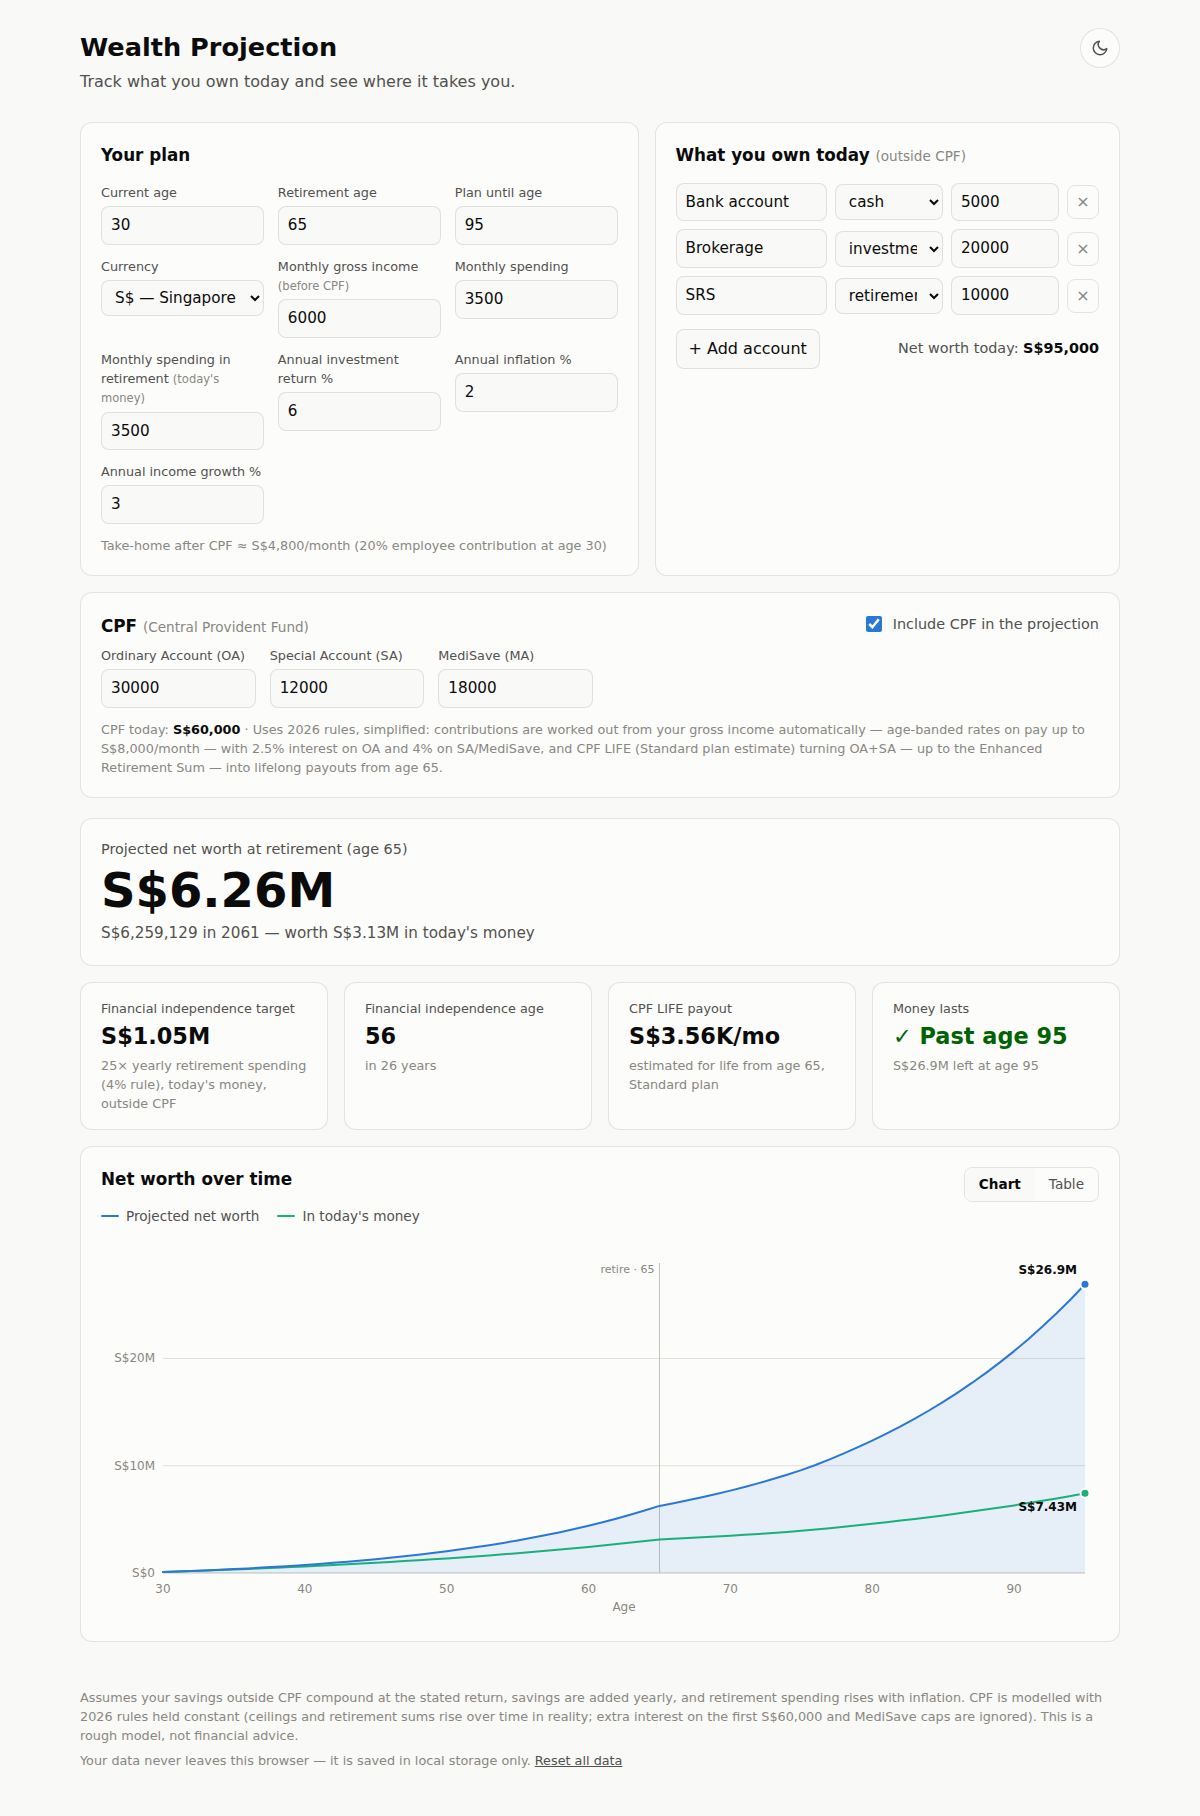
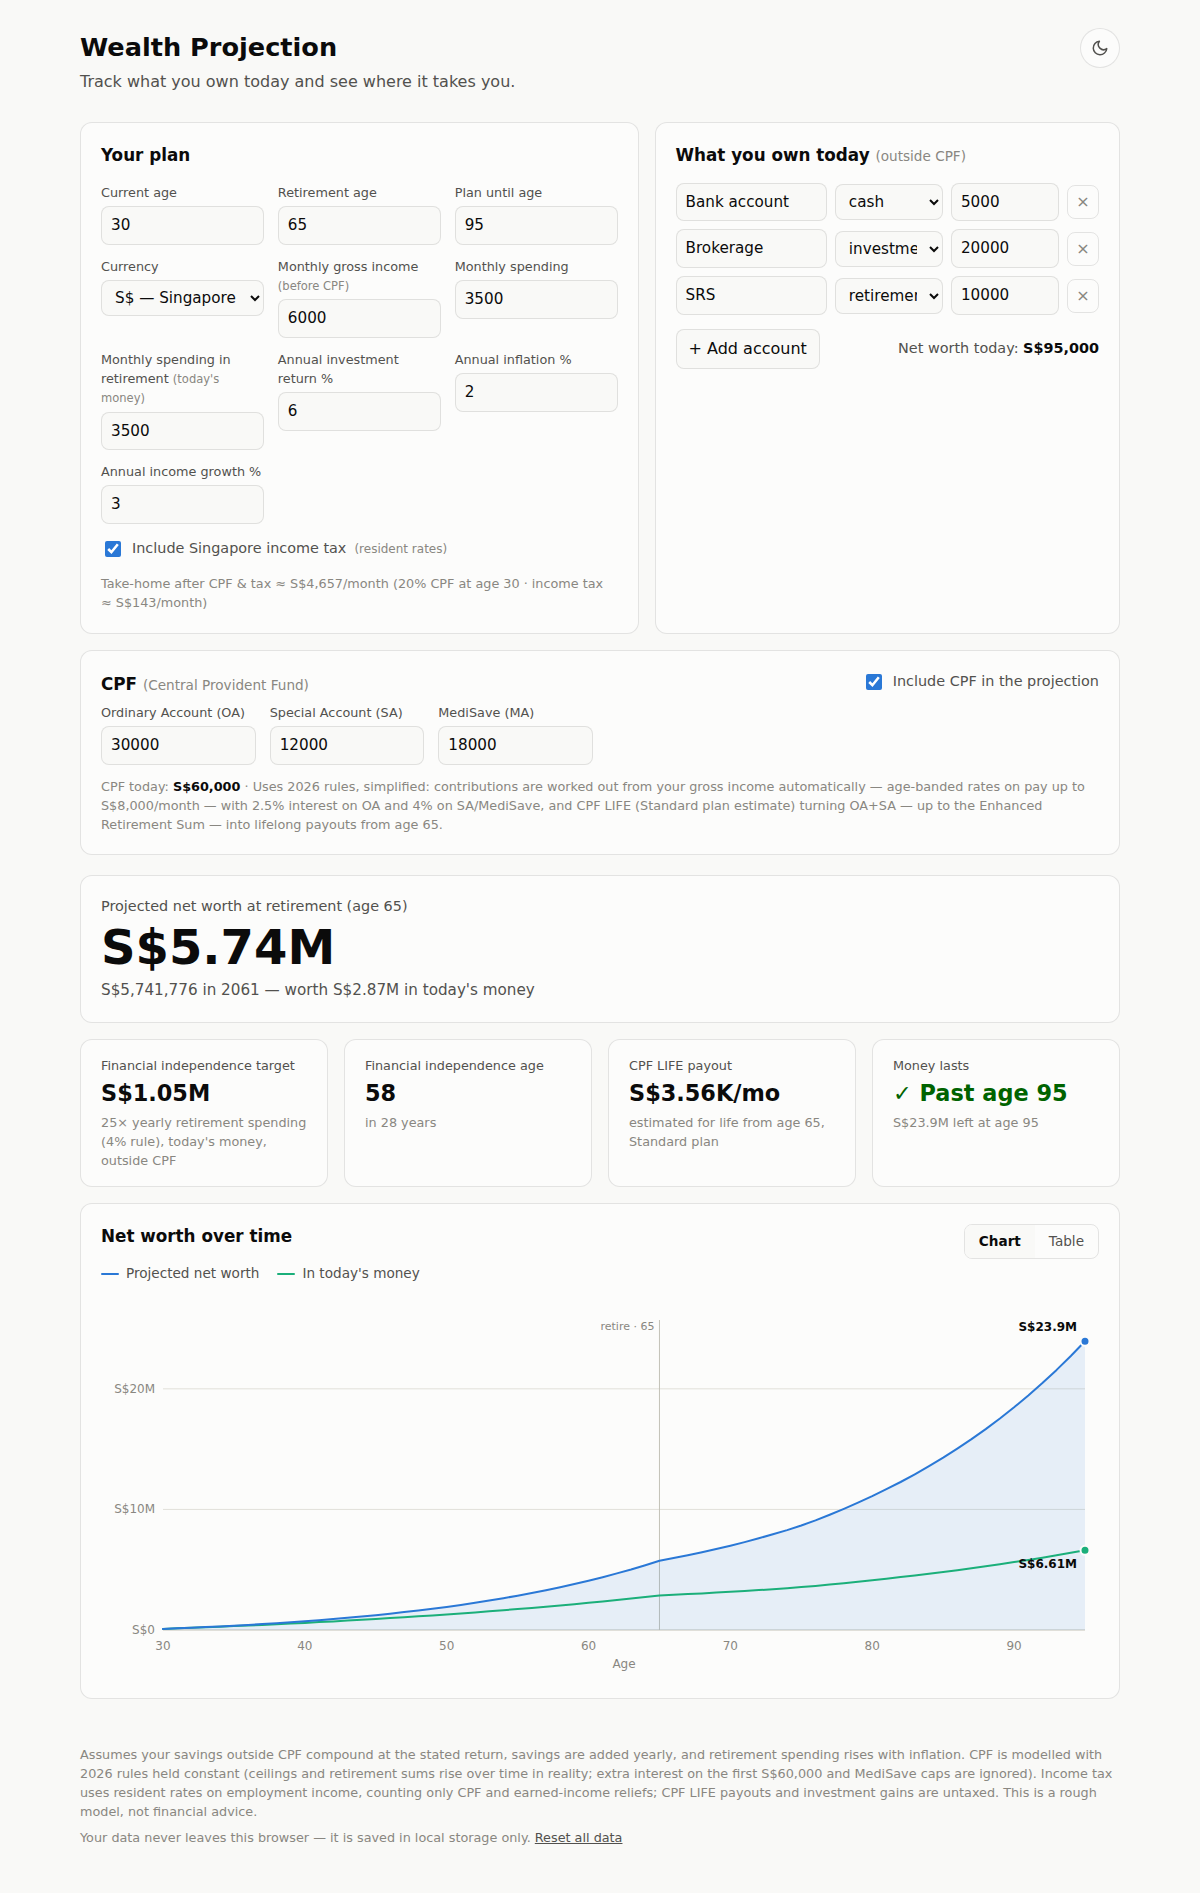
Include Singapore income tax in the projection
Apply resident progressive rates (YA 2026 schedule) to employment income
while working, toggleable in the plan card. Chargeable income deducts the
employee's CPF contributions and the earned income relief; CPF LIFE
payouts and investment gains stay untaxed as in Singapore, so retirement
years carry no tax. The take-home hint now shows the monthly tax amount.
Bracket math is locked to IRAS's published cumulative figures in tests.

Claude-Session: https://claude.ai/code/session_01GSpZFDgGv9EkE1mJWvqyMR

diff --git a/js/app.js b/js/app.js
@@ -1,4 +1,4 @@
-import { project, CPF } from "./projection.js";
+import { project, CPF, TAX } from "./projection.js";
 import { renderChart } from "./chart.js";
 
 const STORAGE_KEY = "wealth-projection-v3";
@@ -16,6 +16,7 @@ const DEFAULT_STATE = {
   returnRate: 6,
   inflationRate: 2,
   incomeGrowthRate: 3,
+  includeTax: true,
   cpf: {
     enabled: true,
     oa: 30000,
@@ -99,6 +100,13 @@ function bindPlanInputs() {
       }
     });
   }
+  const taxCheck = document.getElementById("in-includeTax");
+  taxCheck.checked = state.includeTax;
+  taxCheck.addEventListener("change", () => {
+    state.includeTax = taxCheck.checked;
+    saveState();
+    recompute();
+  });
   const currency = document.getElementById("in-currency");
   currency.value = state.currency;
   if (currency.value !== state.currency) currency.value = "S$"; // unknown saved symbol
@@ -247,6 +255,7 @@ function recompute() {
     returnRate: state.returnRate,
     inflationRate: state.inflationRate,
     incomeGrowthRate: state.incomeGrowthRate,
+    includeTax: state.includeTax,
     cpf: state.cpf,
   });
 
@@ -265,18 +274,26 @@ function recompute() {
 
 function updateIncomeHint() {
   const hint = document.getElementById("income-hint");
-  if (!state.cpf.enabled || !(state.monthlyGrossIncome > 0)) {
+  const cpfOn = state.cpf.enabled;
+  const taxOn = state.includeTax;
+  if ((!cpfOn && !taxOn) || !(state.monthlyGrossIncome > 0)) {
     hint.hidden = true;
     return;
   }
-  const rate = CPF.employeeRateForAge(state.currentAge);
-  const monthlyCeiling = CPF.OW_CEILING_ANNUAL / 12;
-  const takeHome = state.monthlyGrossIncome
-    - rate * Math.min(state.monthlyGrossIncome, monthlyCeiling);
+  const grossAnnual = state.monthlyGrossIncome * 12;
+  const rate = cpfOn ? CPF.employeeRateForAge(state.currentAge) : 0;
+  const cpfAnnual = rate * Math.min(grossAnnual, CPF.OW_CEILING_ANNUAL);
+  const taxAnnual = taxOn
+    ? TAX.of(Math.max(0, grossAnnual - cpfAnnual - TAX.EARNED_INCOME_RELIEF))
+    : 0;
+  const takeHome = (grossAnnual - cpfAnnual - taxAnnual) / 12;
+  const parts = [];
+  if (cpfOn) parts.push(`${(rate * 100).toLocaleString("en-US")}% CPF at age ${state.currentAge}`);
+  if (taxOn) parts.push(`income tax ≈ ${fmtFull(taxAnnual / 12)}/month`);
   hint.hidden = false;
   hint.textContent =
-    `Take-home after CPF ≈ ${fmtFull(takeHome)}/month ` +
-    `(${(rate * 100).toLocaleString("en-US")}% employee contribution at age ${state.currentAge})`;
+    `Take-home after ${[cpfOn && "CPF", taxOn && "tax"].filter(Boolean).join(" & ")}` +
+    ` ≈ ${fmtFull(takeHome)}/month (${parts.join(" · ")})`;
 }
 
 function renderHero(result) {
@@ -463,6 +480,7 @@ document.getElementById("reset-data").addEventListener("click", () => {
 function bindPlanInputsValuesOnly() {
   for (const key of PLAN_FIELDS) document.getElementById(`in-${key}`).value = state[key];
   document.getElementById("in-currency").value = state.currency;
+  document.getElementById("in-includeTax").checked = state.includeTax;
   document.getElementById("in-cpfEnabled").checked = state.cpf.enabled;
   for (const [id, key] of CPF_FIELDS) document.getElementById(id).value = state.cpf[key];
   syncCpfUI();

diff --git a/js/projection.js b/js/projection.js
@@ -51,6 +51,32 @@ export const CPF = {
   },
 };
 
+// Singapore resident income tax (YA 2026 schedule), applied to employment
+// income while working. Chargeable income = gross − employee CPF share −
+// earned income relief; other reliefs are ignored. CPF LIFE payouts and
+// investment gains are untaxed (as in Singapore). Brackets are held constant
+// in nominal terms — another simplification.
+export const TAX = {
+  EARNED_INCOME_RELIEF: 1000,
+  BRACKETS: [
+    // [upper bound of bracket, marginal rate]
+    [20000, 0], [30000, 0.02], [40000, 0.035], [80000, 0.07],
+    [120000, 0.115], [160000, 0.15], [200000, 0.18], [240000, 0.19],
+    [280000, 0.195], [320000, 0.20], [500000, 0.22], [1000000, 0.23],
+    [Infinity, 0.24],
+  ],
+  of(chargeable) {
+    let tax = 0;
+    let prev = 0;
+    for (const [cap, rate] of TAX.BRACKETS) {
+      if (chargeable <= prev) break;
+      tax += (Math.min(chargeable, cap) - prev) * rate;
+      prev = cap;
+    }
+    return tax;
+  },
+};
+
 export function project(p) {
   const currentAge = num(p.currentAge, 30);
   const retirementAge = Math.max(currentAge, num(p.retirementAge, 65));
@@ -65,6 +91,7 @@ export function project(p) {
   let expenses = num(p.annualExpenses, 0);
   const retirementSpendToday = num(p.annualRetirementSpend, expenses);
 
+  const taxOn = !!p.includeTax;
   const cpfOn = !!(p.cpf && p.cpf.enabled);
   let oa = cpfOn ? num(p.cpf.oa, 0) : 0;
   let sa = cpfOn ? num(p.cpf.sa, 0) : 0;
@@ -115,13 +142,18 @@ export function project(p) {
 
       if (working) {
         // take-home = gross − the employee's CPF share on the capped wage
+        // − income tax on what remains chargeable
         const employeeShare = cpfOn
           ? Math.min(gross, CPF.OW_CEILING_ANNUAL) * CPF.employeeRateForAge(age - 1)
           : 0;
-        cashFlow = gross - employeeShare - expenses + annualPayout;
+        const tax = taxOn
+          ? TAX.of(Math.max(0, gross - employeeShare - TAX.EARNED_INCOME_RELIEF))
+          : 0;
+        cashFlow = gross - employeeShare - tax - expenses + annualPayout;
         gross *= 1 + g;
         expenses *= 1 + infl;
       } else {
+        // CPF LIFE payouts are tax-exempt; withdrawals aren't income
         cashFlow = annualPayout - retirementSpendToday * deflator;
       }
 

diff --git a/index.html b/index.html
@@ -91,6 +91,10 @@
             <input type="number" id="in-incomeGrowthRate" min="0" max="20" step="0.1">
           </label>
         </div>
+        <label class="check-field plan-check">
+          <input type="checkbox" id="in-includeTax">
+          Include Singapore income tax <small>(resident rates)</small>
+        </label>
         <p class="income-hint" id="income-hint" hidden></p>
       </div>
 
@@ -171,6 +175,8 @@
        added yearly, and retirement spending rises with inflation. CPF is modelled
        with 2026 rules held constant (ceilings and retirement sums rise over time in
        reality; extra interest on the first S$60,000 and MediSave caps are ignored).
+       Income tax uses resident rates on employment income, counting only CPF and
+       earned-income reliefs; CPF LIFE payouts and investment gains are untaxed.
        This is a rough model, not financial advice.</p>
     <p>Your data never leaves this browser — it is saved in local storage only.
        <button type="button" id="reset-data" class="btn-link">Reset all data</button></p>

diff --git a/styles.css b/styles.css
@@ -110,7 +110,9 @@ button { font: inherit; color: inherit; }
 .field { display: flex; flex-direction: column; gap: 4px; }
 .field-label { font-size: 0.8rem; color: var(--text-secondary); }
 .field-label small { color: var(--text-muted); font-size: 0.72rem; }
-.income-hint { margin: 12px 0 0; font-size: 0.8rem; color: var(--text-muted); }
+.income-hint { margin: 10px 0 0; font-size: 0.8rem; color: var(--text-muted); }
+.plan-check { margin-top: 14px; }
+.plan-check small { color: var(--text-muted); font-size: 0.75rem; }
 input[type="number"], select, .account-row input, .account-row select {
   background: var(--page);
   color: var(--text-primary);

diff --git a/README.md b/README.md
@@ -47,8 +47,9 @@ on `file://` URLs.)
 Annual steps, deliberately simple:
 
 - Savings outside CPF compound at the stated investment return.
-- Income is entered **gross** (before CPF); with CPF enabled, the employee's
-  age-banded CPF share is deducted automatically to get take-home pay.
+- Income is entered **gross** (before CPF and tax); the employee's age-banded
+  CPF share and Singapore resident income tax are deducted automatically to
+  get take-home pay (each can be toggled off).
 - While working, yearly savings (take-home income − spending) are added; income
   grows at its own rate and spending rises with inflation.
 - From retirement age on, that year's inflation-adjusted retirement spending is
@@ -57,6 +58,15 @@ Annual steps, deliberately simple:
 - "Today's money" divides nominal values by cumulative inflation.
 - Financial independence is measured against assets *outside* CPF, since CPF is
   locked until the payout age.
+
+### Income tax (Singapore)
+
+Resident progressive rates (YA 2026 schedule, 0% on the first S$20,000 up to
+24% above S$1M) are applied to employment income while working. Chargeable
+income deducts the employee's CPF contributions and the S$1,000 earned income
+relief; other reliefs aren't modelled. CPF LIFE payouts and investment gains
+are untaxed, as in Singapore, so retirement years carry no tax. Brackets are
+held constant in nominal terms.
 
 ### CPF (Singapore)
 
@@ -81,10 +91,10 @@ Simplifications, in the interest of staying understandable: 2026 ceilings and
 retirement sums are held constant in nominal terms (they rise over time in
 reality); contribution allocation uses the under-35 OA/SA/MA split at every
 age; the extra 1% interest on the first S$60,000 and the MediSave cap (BHS)
-are ignored; income tax is not modelled.
+are ignored.
 
-This is a rough planning model, not financial advice — it also ignores taxes,
-sequence-of-returns risk, and asset allocation.
+This is a rough planning model, not financial advice — it also ignores
+sequence-of-returns risk and asset allocation.
 
 CPF parameters (in `js/projection.js`) are based on:
 [CPF contribution rates from 1 Jan 2026](https://www.cpf.gov.sg/employer/employer-obligations/how-much-cpf-contributions-to-pay) ·
